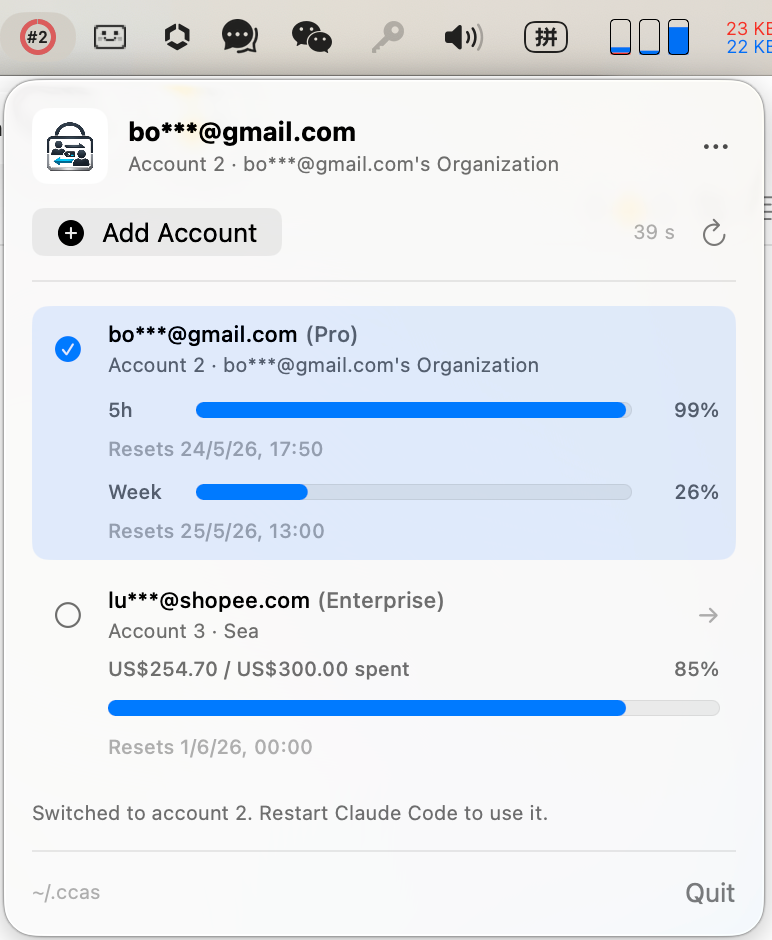
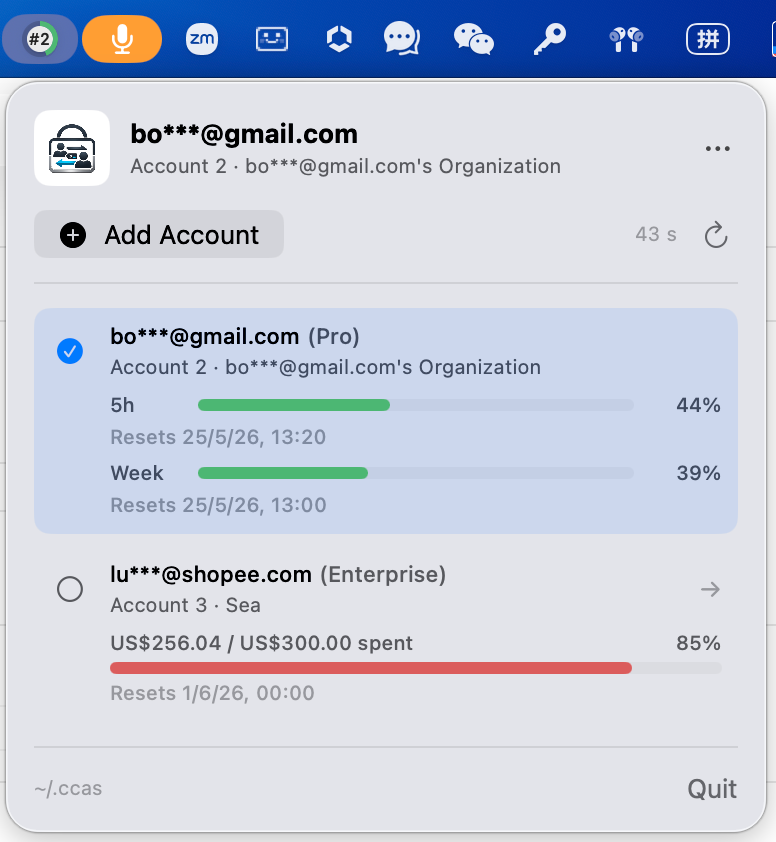
Replace ProgressView with custom QuotaBar for reliable tint, bump to 0.4.6
macOS SwiftUI .tint() on ProgressView(.linear) silently falls back to
the default blue accent in some contexts. Replace with a custom
QuotaBar (GeometryReader + Capsule) so severity colors always render.
Also add opaque fill to the menu bar ring icon for readability on dark
wallpapers, and re-render the icon when system appearance changes.

diff --git a/Sources/CCASApp/MenuContentView.swift b/Sources/CCASApp/MenuContentView.swift
@@ -376,6 +376,24 @@ private struct AccountQuotaView: View {
     }
 }
 
+private struct QuotaBar: View {
+    let value: Double
+    let color: Color
+    private static let height: CGFloat = 6
+
+    var body: some View {
+        GeometryReader { geo in
+            ZStack(alignment: .leading) {
+                Capsule().fill(.secondary.opacity(0.2))
+                Capsule()
+                    .fill(color)
+                    .frame(width: geo.size.width * min(max(value, 0), 1))
+            }
+        }
+        .frame(height: Self.height)
+    }
+}
+
 private struct QuotaProgressLine: View {
     let title: String
     let window: QuotaWindow
@@ -388,9 +406,10 @@ private struct QuotaProgressLine: View {
                     .foregroundStyle(.secondary)
                     .frame(width: 38, alignment: .leading)
 
-                ProgressView(value: progressValue)
-                    .progressViewStyle(.linear)
-                    .tint(QuotaSeverity(percent: window.usedPercentage).color)
+                QuotaBar(
+                    value: progressValue,
+                    color: QuotaSeverity(percent: window.usedPercentage).color
+                )
 
                 Text(percentText)
                     .font(.caption2.monospacedDigit())
@@ -444,9 +463,10 @@ private struct MonetaryQuotaLine: View {
             }
 
             if let percentage = quota.usedPercentage {
-                ProgressView(value: min(max(percentage / 100, 0), 1))
-                    .progressViewStyle(.linear)
-                    .tint(QuotaSeverity(percent: percentage).color)
+                QuotaBar(
+                    value: percentage / 100,
+                    color: QuotaSeverity(percent: percentage).color
+                )
             }
 
             if let resetsAt = quota.resetsAt {
